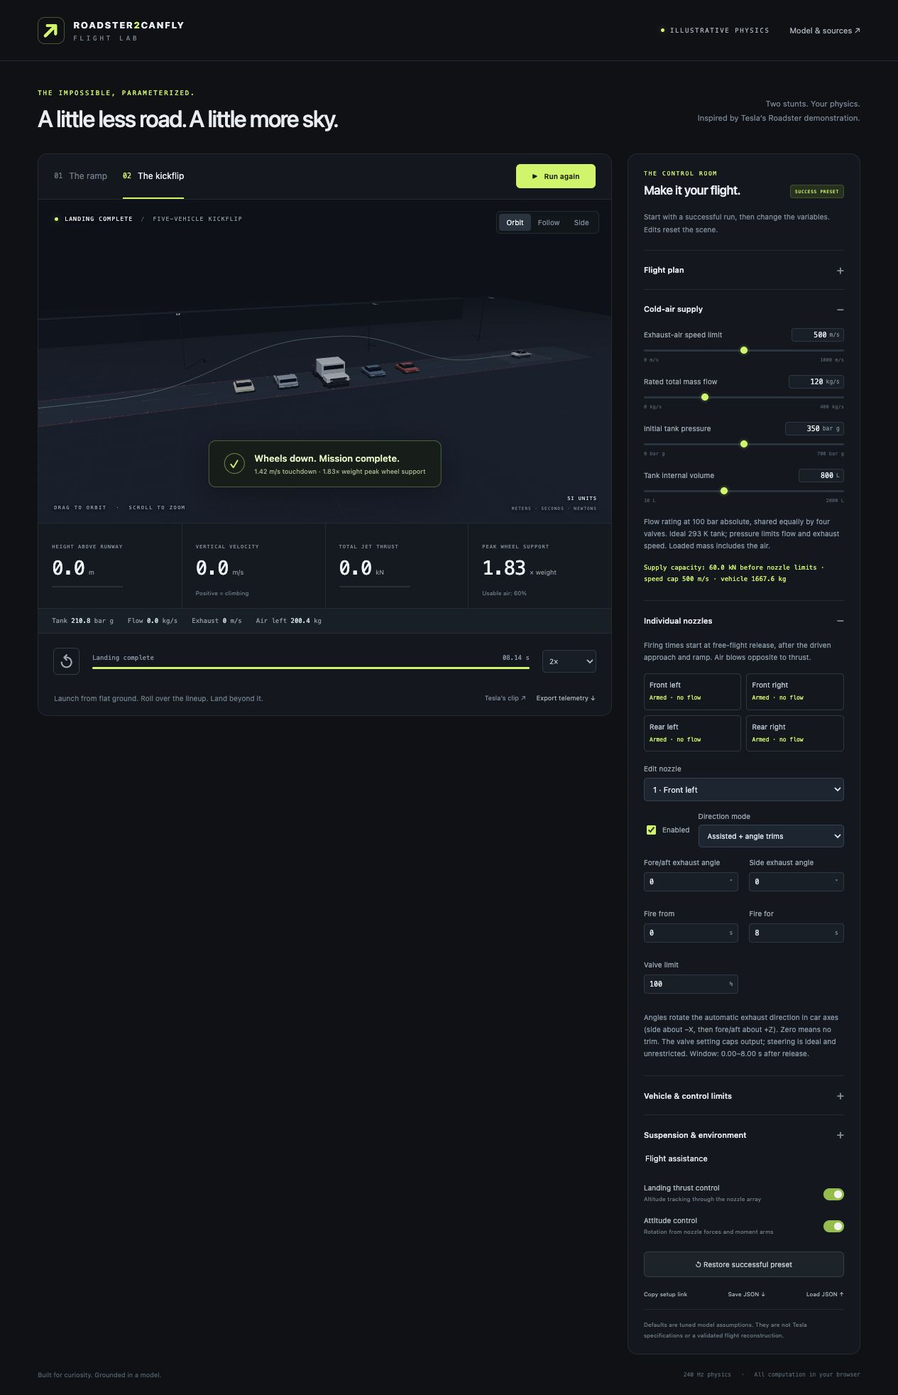
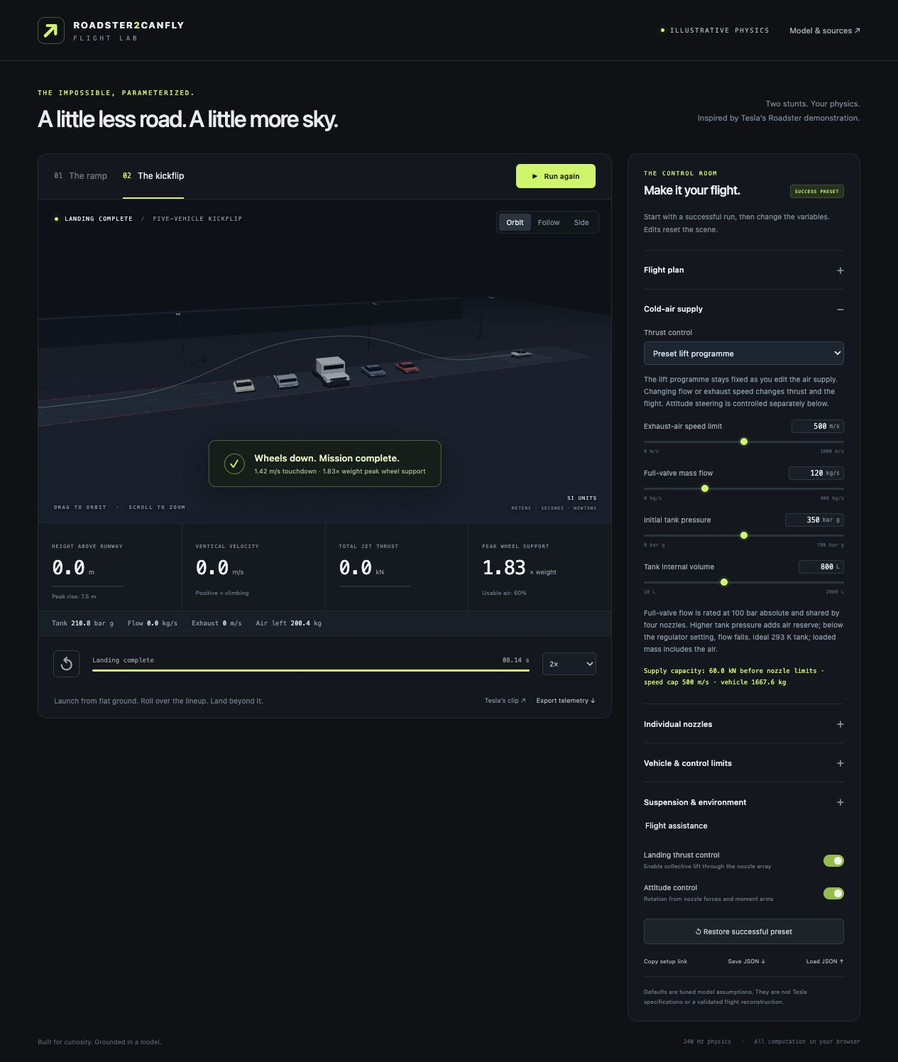
Make airflow changes affect the default flight

diff --git a/src/simulation.js b/src/simulation.js
@@ -22,6 +22,7 @@ const smooth = (u) => {
 };
 let initialization;
 export const initializePhysics = () => (initialization ??= RAPIER.init());
+const programmeCache = new Map();
 
 function hermite(t, duration, y0, v0, y1, v1) {
   const u = clamp(t / duration, 0, 1),
@@ -60,6 +61,47 @@ function bump(t, duration, height, baseline) {
   };
 }
 
+// Plan collective valve opening at nominal hardware settings, then keep it fixed
+// when the user changes air supply, vehicle mass, nozzles, or environment.
+function liftProgrammeFor(mode, parameters) {
+  const plan = Object.fromEntries(
+    ["speed", "height", "exitAngle", "flightTime", "rotationTime"].map(
+      (key) => [key, parameters[key]],
+    ),
+  );
+  const key = JSON.stringify(plan);
+  const cached = programmeCache.get(mode);
+  if (cached?.key === key) return cached;
+  // Explicit auto-throttle mode avoids recursively preparing another programme.
+  const reference = new FlightSimulation(mode, { ...plan, autoThrottle: true });
+  const forces = [];
+  try {
+    reference.start();
+    for (let i = 0; i < 45 / STEP && reference.running; i++) {
+      reference.step();
+      if (reference.flightStart !== null) forces.push(reference.requestedLift);
+    }
+    if (
+      reference.running ||
+      forces.length === 0 ||
+      !forces.every(Number.isFinite)
+    )
+      throw new Error(
+        "Could not prepare the nominal lift programme for this flight plan",
+      );
+    const programme = {
+      key,
+      forces: new Float64Array(forces),
+      nominalThrust: reference.nominalThrust,
+    };
+    // Retain only the most recent plan per scene; no growing replay cache.
+    programmeCache.set(mode, programme);
+    return programme;
+  } finally {
+    reference.dispose();
+  }
+}
+
 /** SI-unit rigid-body model. The driven approach is prescribed; free flight is force-integrated. */
 export class FlightSimulation {
   constructor(mode = "ramp", overrides = {}) {
@@ -72,6 +114,8 @@ export class FlightSimulation {
     this.mode = mode;
     this.p = parametersFor(mode, overrides);
     const p = this.p;
+    this.liftProgramme = p.autoThrottle ? null : liftProgrammeFor(mode, p);
+    this.requestedLift = 0;
     this.height = rideHeight(p);
     this.time = 0;
     this.phase = "ready";
@@ -312,7 +356,7 @@ export class FlightSimulation {
     this.torqueLevel = 0;
     const maxThrust = p.thrust * 1000;
     let thrust = 0;
-    if (p.landingAssist && this.touchdownTime === null) {
+    if (p.landingAssist && this.touchdownTime === null && p.autoThrottle) {
       let target;
       if (tf <= p.flightTime) {
         target =
@@ -333,7 +377,17 @@ export class FlightSimulation {
         11 * (target.y - position.y) +
         6.5 * (target.v - velocity.y);
       thrust = clamp(this.mass * acceleration, 0, maxThrust);
+    } else if (p.landingAssist && this.touchdownTime === null) {
+      const command = this.liftProgramme.forces[Math.round(tf / STEP)] ?? 0;
+      // Same planned valve demand, different hardware: F = flow × exhaust speed.
+      // There is deliberately no altitude-error feedback to cancel the edit.
+      thrust = clamp(
+        (command * this.supply.maxThrust) / this.liftProgramme.nominalThrust,
+        0,
+        maxThrust,
+      );
     }
+    this.requestedLift = thrust;
     const torque = new Vector3();
     if (
       p.attitudeAssist &&

diff --git a/src/main.js b/src/main.js
@@ -125,10 +125,26 @@ function makeControls() {
       );
     }
     if (group.title === "Cold-air supply") {
+      const modeControl = document.createElement("label");
+      modeControl.className = "throttle-mode";
+      modeControl.innerHTML = `<span>Thrust control</span><select id="throttle-mode" aria-label="Thrust control"><option value="programme">Preset lift programme</option><option value="automatic">Auto throttle · hold target path</option></select>`;
+      modeControl.querySelector("select").value = parameters.autoThrottle
+        ? "automatic"
+        : "programme";
+      modeControl
+        .querySelector("select")
+        .addEventListener("change", (event) => {
+          changeParameter("autoThrottle", event.target.value === "automatic");
+          updateThrottleNote();
+        });
+      const modeNote = document.createElement("p");
+      modeNote.id = "throttle-note";
+      modeNote.className = "control-note";
+      fields.prepend(modeControl, modeNote);
       const note = document.createElement("p");
       note.className = "control-note";
       note.textContent =
-        "Flow rating at 100 bar absolute, shared equally by four valves. Ideal 293 K tank; pressure limits flow and exhaust speed. Loaded mass includes the air.";
+        "Full-valve flow is rated at 100 bar absolute and shared by four nozzles. Higher tank pressure adds air reserve; below the regulator setting, flow falls. Ideal 293 K tank; loaded mass includes the air.";
       const output = document.createElement("p");
       output.id = "supply-summary";
       output.className = "supply-summary";
@@ -140,7 +156,14 @@ function makeControls() {
   });
   $("landing-assist").checked = parameters.landingAssist;
   $("attitude-assist").checked = parameters.attitudeAssist;
+  updateThrottleNote();
   updatePresetBadge();
+}
+
+function updateThrottleNote() {
+  $("throttle-note").textContent = parameters.autoThrottle
+    ? "Auto throttle compensates to hold the target path. Flow and speed are capacity limits; raising spare capacity may leave the flight unchanged."
+    : "The lift programme stays fixed as you edit the air supply. Changing flow or exhaust speed changes thrust and the flight. Attitude steering is controlled separately below.";
 }
 
 function makeNozzleControls() {
@@ -284,6 +307,8 @@ function updateTelemetry(s) {
       ? "Ready when you are"
       : `${phaseNames[s.phase]}${simulation.running ? " · paused" : ""}`;
   $("altitude").textContent = s.altitude.toFixed(1);
+  $("peak-height").textContent =
+    `Peak rise: ${s.metrics.peakHeight.toFixed(1)} m`;
   $("vertical-speed").textContent =
     (s.velocity.y > 0.05 ? "+" : "") + s.velocity.y.toFixed(1);
   $("thrust").textContent = (s.thrust / 1000).toFixed(1);

diff --git a/tests/simulation.test.js b/tests/simulation.test.js
@@ -58,7 +58,39 @@ for (const mode of ["ramp", "kickflip"]) {
     assert.ok(sim.trace.every((row) => row.thrust === 0));
     sim.dispose();
   });
+
+  test(`${mode}: changing spare airflow changes the flight with the default lift programme`, () => {
+    const lower = run(mode, { massFlow: 90 });
+    const higher = run(mode, { massFlow: 150 });
+    assert.equal(lower.p.autoThrottle, false);
+    assert.ok(higher.metrics.peakHeight - lower.metrics.peakHeight > 2);
+    assert.ok(
+      Math.max(...higher.trace.map((r) => r.thrust)) >
+        Math.max(...lower.trace.map((r) => r.thrust)) * 1.2,
+    );
+    lower.dispose();
+    higher.dispose();
+  });
+
+  test(`${mode}: explicit auto throttle can compensate for additional airflow capacity`, () => {
+    const lower = run(mode, { massFlow: 90, autoThrottle: true });
+    const higher = run(mode, { massFlow: 150, autoThrottle: true });
+    assert.equal(lower.phase, "complete");
+    assert.equal(higher.phase, "complete");
+    assert.equal(lower.metrics.peakHeight, higher.metrics.peakHeight);
+    assert.equal(lower.metrics.touchdownSpeed, higher.metrics.touchdownSpeed);
+    lower.dispose();
+    higher.dispose();
+  });
 }
+
+test("exhaust-speed changes affect the default kickflip flight instead of being throttled away", () => {
+  const lower = run("kickflip", { exhaustSpeed: 400 });
+  const higher = run("kickflip", { exhaustSpeed: 600 });
+  assert.ok(higher.metrics.peakHeight - lower.metrics.peakHeight > 5);
+  lower.dispose();
+  higher.dispose();
+});
 
 test("landing without the kickflip does not complete the kickflip stunt", () => {
   const sim = run("kickflip", { torque: 0 });

diff --git a/index.html b/index.html
@@ -137,6 +137,9 @@
                 <span class="metric-label">HEIGHT ABOVE RUNWAY</span>
                 <p><strong id="altitude">0.0</strong><span>m</span></p>
                 <div class="meter"><i id="altitude-meter"></i></div>
+                <small id="peak-height" class="metric-peak"
+                  >Peak rise: 0.0 m</small
+                >
               </div>
               <div>
                 <span class="metric-label">VERTICAL VELOCITY</span>
@@ -228,7 +231,7 @@
               <label
                 ><span
                   >Landing thrust control<small
-                    >Altitude tracking through the nozzle array</small
+                    >Enable collective lift through the nozzle array</small
                   ></span
                 ><input
                   id="landing-assist"
@@ -309,6 +312,12 @@
         trims, valve limits, and firing windows affect those forces. The
         successful presets assume unrestricted automatic steering; choose “Fixed
         to car” to fire along a body-mounted direction.
+      </p>
+      <p>
+        The default preset lift programme keeps the nominal valve demand fixed,
+        so changing airflow or exhaust speed changes the flight. Auto throttle
+        is an explicit alternative: it adjusts valve opening to hold the target
+        path, so increasing spare flow capacity may have no visible effect.
       </p>
       <p>
         A finite ideal-air tank stays at 293 K. A regulator caps inlet pressure

diff --git a/src/style.css b/src/style.css
@@ -369,6 +369,10 @@ h1 {
   font-size: 8px;
   color: #718491;
 }
+.telemetry .metric-peak {
+  display: block;
+  margin-top: 8px;
+}
 .meter {
   height: 2px;
   background: #263642;
@@ -685,7 +689,8 @@ input[type="range"]::-moz-range-thumb {
   font-size: 10px;
   margin-bottom: 7px;
 }
-.nozzle-controls select {
+.nozzle-controls select,
+.throttle-mode select {
   width: 100%;
   min-width: 0;
   border: 1px solid #344b5b;
@@ -694,6 +699,16 @@ input[type="range"]::-moz-range-thumb {
   background: #172a37;
   padding: 8px;
   font-size: 11px;
+}
+.throttle-mode {
+  display: block;
+  margin: 0 0 12px;
+}
+.throttle-mode > span {
+  display: block;
+  color: #a4b3be;
+  font-size: 10px;
+  margin-bottom: 7px;
 }
 .nozzle-mode-controls {
   display: flex;

diff --git a/src/config.js b/src/config.js
@@ -162,6 +162,7 @@ const common = {
   exitAngle: 135,
   attitudeAssist: true,
   landingAssist: true,
+  autoThrottle: false,
 };
 
 export const DEFAULTS = Object.freeze({
@@ -241,7 +242,7 @@ export const PARAM_GROUPS = [
       },
       {
         key: "massFlow",
-        label: "Rated total mass flow",
+        label: "Full-valve mass flow",
         unit: "kg/s",
         min: 0,
         max: 400,

diff --git a/docs/MODEL.md b/docs/MODEL.md
@@ -34,6 +34,7 @@ All numbers in this table are model inputs, not measurements of Tesla’s demo.
 | Tank internal volume                |         800 L |     Same |
 | Initial usable air                  |       ~333 kg |     Same |
 | Initial available jet thrust        |         60 kN |     Same |
+| Auto throttle                       |           Off |      Off |
 | Spring rate per wheel               |       40 kN/m |     Same |
 | Damper per wheel                    |    4.5 kN·s/m |     Same |
 | Compression travel                  |        0.26 m |     Same |
@@ -59,9 +60,13 @@ The tank uses fixed ideal-air assumptions: 293.15 K, gas constant 287.05 J/(kg·
 
 ## Flight control
 
-The ramp altitude reference is a cubic Hermite curve matching release height/vertical velocity and the desired touchdown height/velocity. The kickflip uses two quintic smoothstep segments to rise to the selected height and descend.
+The ramp altitude reference is a cubic Hermite curve matching release height/vertical velocity and the desired touchdown height/velocity. The kickflip uses two quintic smoothstep segments to rise to the selected height and descend. These define the nominal flight plan, rather than imposing positions on the dynamic chassis.
 
-Lift control requests `m * (g + reference_acceleration + 11 * height_error + 6.5 * vertical_velocity_error)`, limited to `[0, lift_request_limit]`. Mass `m` decreases as air is expelled. This is a request for a world-up force, transformed to body coordinates and allocated to the four nozzles.
+**Preset lift programme is the default.** The model first prepares nominal collective lift commands at 240 Hz using the default vehicle, supply, and nozzles for the selected speed, height, exit angle, flight duration, and rotation duration. It retains only the latest command programme per scene. Recorded values are force commands, not vehicle positions or a replayed trajectory.
+
+During the actual run, lift is `clamp(nominal_command(t) * current_supply_capacity / nominal_supply_capacity, 0, lift_request_limit)`. Thus the same nominal valve demand produces more thrust with more flow or exhaust speed, and less thrust when pressure limits delivery. Supply, vehicle mass, nozzle, and environment edits do not cause a new programme to be fitted around those changes. There is no altitude-error feedback in this mode to cancel them. The body still responds to integrated gravity, jet forces, drag, and contact; extra thrust can cause an overshoot and a harder eventual landing. Attitude assistance remains independently selectable.
+
+**Auto throttle is an explicit alternative.** It requests `m * (g + reference_acceleration + 11 * height_error + 6.5 * vertical_velocity_error)`, limited to `[0, lift_request_limit]`. Mass `m` decreases as air is expelled. This mode adjusts valves to hold the target path; a higher flow rating can be exactly compensated by a smaller valve opening when capacity is sufficient. Flow is then a capability limit, rather than a direct instruction to expel more air. Both modes request a world-up force that is transformed to body coordinates and allocated to the four nozzles.
 
 Attitude control tracks a quaternion reference with a proportional/damping torque request. The ramp target rotates from the exit attitude to an upright car facing back along the runway. The kickflip target completes one longitudinal roll. The request is capped at the selected torque norm. There is **no separate torque actuator**: actual rotation must come from nozzle forces at their moment arms.
 
@@ -77,7 +82,7 @@ w = inverse(D) * (requested_torque - r_mean × requested_force)
 F_i = requested_force / 4 + w × r_i
 ```
 
-Each assisted nozzle takes the opposite vector as its exhaust direction, applies its user-selected direction trims, and clamps force to its individual flow/speed/valve capacity. The four shares are computed before closed valves and saturation; unavailable capacity is not redistributed by an optimizer. Disabling a nozzle, shortening its window, or trimming it can spoil the maneuver. The controller responds to the resulting motion through feedback, but cannot add any hidden force or torque.
+Each assisted nozzle takes the opposite vector as its exhaust direction, applies its user-selected direction trims, and clamps force to its individual flow/speed/valve capacity. The four shares are computed before closed valves and saturation; unavailable capacity is not redistributed by an optimizer. Disabling a nozzle, shortening its window, or trimming it can spoil the maneuver. Attitude control responds through feedback; altitude correction occurs only in Auto throttle mode. Neither can add any hidden force or torque.
 
 Choose **Fixed to car** to bypass automatic steering and fire that nozzle at its selected valve percentage during its window. Both assistance switches can be off while fixed nozzles still fire. At zero angles its exhaust points along body -Y. Angles rotate the exhaust first about -X (side), then +Z (fore/aft). With the other angle zero, +90° side points exhaust left (+Z), and +90° fore/aft points it toward the nose (+X). Thrust points the opposite way. In assisted mode these same rotations trim the automatic body-frame exhaust direction; zero angles leave it unchanged. Ideal steering has no gimbal angle or rate limits.
 
@@ -87,7 +92,7 @@ Windows are half-open `[start, start + duration)` in **seconds since free-flight
 
 The model uses the ideal gas relation `P V = m R T`. Tank volume and temperature are constant. Initial loaded vehicle mass includes all tank air; expelled air is subtracted from both tank and vehicle mass. Gas remaining at ambient pressure is retained and cannot produce further thrust. Center of mass is held fixed and chassis inertia scales uniformly with the remaining loaded mass, rather than solving internal gas motion or tank placement.
 
-The user-selected **rated total mass flow** defines four equal ideal valve capacities at 100 bar absolute. The actual inlet is `P_in = min(P_tank, 100 bar absolute)`. Flow scales with inlet pressure. Above the critical pressure ratio it is choked; near ambient it uses the subsonic isentropic orifice relation and falls to zero:
+The user-selected **full-valve mass flow** defines four equal ideal valve capacities at 100 bar absolute. The actual inlet is `P_in = min(P_tank, 100 bar absolute)`. Above the regulator setting, more tank pressure adds air reserve without increasing initial flow. Below it, flow scales with inlet pressure. Above the critical pressure ratio it is choked; near ambient it uses the subsonic isentropic orifice relation and falls to zero:
 
 ```text
 r = P_ambient / P_in
@@ -128,7 +133,7 @@ These are explicit sandbox criteria, not Tesla specifications or safety standard
 
 ## Verification
 
-`npm test` checks successful defaults for both scenes; flow/speed/pressure limits; tank and rigid-body mass conservation; nozzle force and moment balance; direction, valve, and timing effects; the final gas step; incomplete-kickflip detection; insufficient lift; unpowered vertical acceleration; repeatability; setup round trips and legacy conversion; and rejected invalid parameters. Tests use the same physics and propulsion modules as the browser.
+`npm test` checks successful defaults for both scenes; actual trajectory changes with airflow and exhaust-speed edits; compensation only in explicit Auto throttle mode; flow/speed/pressure limits; tank and rigid-body mass conservation; nozzle force and moment balance; direction, valve, and timing effects; the final gas step; incomplete-kickflip detection; insufficient lift; unpowered vertical acceleration; repeatability; setup round trips and legacy conversion; and rejected invalid parameters. Tests use the same physics and propulsion modules as the browser.
 
 Default smoke results on the development Mac (M1 Max, Node 26, Rapier 0.21.0):
 
@@ -136,6 +141,16 @@ Default smoke results on the development Mac (M1 Max, Node 26, Rapier 0.21.0):
 | -------- | -------- | -----------------------: | -----------------: | -----------: | ------------------: | -------------: |
 | Ramp     | Complete |                ~1.39 m/s |     ~1.81 × weight |    ~164.0 kg |        ~177.5 bar g | Not applicable |
 | Kickflip | Complete |                ~1.42 m/s |     ~1.83 × weight |    ~132.4 kg |        ~210.8 bar g |         ~1.000 |
+
+With the same default kickflip plan and Preset lift programme, changing only full-valve flow gives:
+
+| Flow rating | Peak rise | Outcome                    |
+| ----------: | --------: | -------------------------- |
+|     90 kg/s |    ~2.5 m | Strikes the semi           |
+|    120 kg/s |    ~7.5 m | Stable landing             |
+|    150 kg/s |   ~21.2 m | Overshoot and hard landing |
+
+These cases were identical at 90–150 kg/s in the earlier implicit auto-throttle implementation. The regression tests now require a change in actual trajectory, not merely an updated capacity readout or a zero-flow failure.
 
 JSON setups and share links use version 2 and include the full supply and all four nozzle records. Loading version 1 converts its former impulse budget to an equivalent usable air mass at the default speed and tank pressure and visibly reports the migration; results can change. Invalid or physically impossible loaded-mass/tank combinations fail explicitly. CSV columns include SI force, torque, flow and mass, gauge pressure in bar, and each nozzle's thrust, flow, and body-frame exhaust vector. Nozzle indices 1–4 are front left, front right, rear left, rear right.
 

diff --git a/README.md b/README.md
@@ -35,12 +35,13 @@ The size check enforces a **1 GB project budget**, including source, installed d
 ## What you can change
 
 - **Flight:** launch speed, ramp or jump height, ramp exit angle, target flight time, rotation duration.
-- **Cold-air supply:** exhaust-air speed, rated total mass flow, initial tank pressure, and tank volume. Live telemetry shows pressure, actual flow and exhaust speed, and remaining usable air.
+- **Cold-air supply:** exhaust-air speed, full-valve mass flow, initial tank pressure, and tank volume. Live telemetry shows pressure, actual flow and exhaust speed, remaining usable air, and peak rise.
+- **Thrust control:** the default **Preset lift programme** keeps nominal lift valve demand fixed, so airflow and exhaust-speed edits change thrust and trajectory. **Auto throttle** is a separate option that adjusts valve opening to hold the target path; increasing spare capacity in that mode may leave the flight unchanged.
 - **Individual nozzles:** select any of four corner nozzles, adjust two exhaust angles, enable/disable it, set its valve limit, and schedule its firing start and duration. Times start at free-flight release. Assisted steering uses angle trims; fixed mode fires along the chosen car-relative direction.
 - **Vehicle and control:** initial loaded mass, center of mass, lift request limit, and attitude torque request limit.
 - **Landing:** spring stiffness, damping, suspension travel, friction.
 - **Environment:** drag area and wind along the runway.
-- **Assistance:** independently enable altitude tracking and attitude control.
+- **Assistance:** independently enable collective lift and attitude control.
 
 Changes reset the simulation. **Restore successful preset** returns the current scene to its tested defaults. Save/load a version-2 JSON setup or copy a URL containing the full setup, including every nozzle. Version-1 setups are explicitly converted from their impulse budget to an equivalent usable air mass; results can differ under the new model. Export the run’s telemetry as CSV, including tank state, forces, and individual nozzle flows and exhaust directions.
 
@@ -57,6 +58,8 @@ The night runway, overhung ramp, airborne recovery, five-vehicle lineup, roll, a
 The driven approach and adhesion to the overhung ramp are prescribed. After release, Rapier integrates a rigid chassis at **240 Hz**. Four spring-damper wheel contacts handle landing support and friction. Four nozzle point forces produce both lift and rotation, consume air from a finite tank, and reduce vehicle mass. Pressure limits available flow and exhaust speed. Parameter changes can cause collisions, insufficient lift, hard landings, or an incomplete stunt.
 
 The successful presets assume **ideal unrestricted nozzle steering**, an **isothermal ideal-air tank**, and a **100 bar absolute regulator**. The flow rating is the combined four-valve capacity at that regulator pressure; lower pressure reduces it. Exhaust speed is capped by ideal expansion to ambient. The 800 L / 350 bar gauge tank and all other engineering values are illustrative assumptions, not Tesla hardware specifications. This is a lightweight reduced model, not CFD or a pressure-vessel design tool.
+
+For example, the default kickflip rises about **7.5 m at 120 kg/s**. With the same lift programme, **90 kg/s** reaches only about **2.5 m** and strikes the vehicle lineup; **150 kg/s** rises about **21.2 m** and lands hard. The nominal programme is prepared for the selected flight plan at the default hardware settings. Editing the air supply, vehicle mass, nozzles, or environment does not retune it to cancel those changes. The runway approach and ramp travel remain prescribed.
 
 See [the model and its assumptions](docs/MODEL.md) for equations, defaults, criteria, and limitations.
 

diff --git a/docs/ACCEPTANCE.md b/docs/ACCEPTANCE.md
@@ -2,10 +2,12 @@
 
 Checked locally on October 16, 2026, on an Apple M1 Max MacBook Pro with 64 GB RAM, Node 26, Three.js 0.186.1, and Rapier 0.21.0.
 
-- All **23 physics, propulsion, and input tests pass**. Tests cover successful defaults, finite tank depletion, mass conservation, pressure/flow/speed limits, force and moment balance, individual nozzle directions and firing windows, invalid inputs, and setup round trips.
+- All **28 physics, propulsion, and input tests pass**. New regressions require airflow and exhaust-speed edits to change the actual trajectory in the default mode and check that compensation occurs in the explicitly selected Auto throttle mode. Existing tests cover successful defaults, finite tank depletion, mass conservation, pressure/flow/speed limits, force and moment balance, individual nozzle directions and firing windows, invalid inputs, and setup round trips.
 - The GitHub Pages production build succeeds. The deployable site is approximately **5.01 MB** and includes the WebAssembly physics engine. No runtime dependencies were added for the new controls.
 - The project, dependencies, and build occupy approximately **85 MB**, below the **1 GB** budget enforced by `npm run check:size`.
 - Both default scenes reach **Landing complete** in the Codex in-app browser. The ramp reports **1.39 m/s** touchdown, **1.81× weight** peak wheel support, and **177.5 bar gauge** remaining tank pressure. The kickflip reports **1.42 m/s**, **1.83× weight**, and **210.8 bar gauge**.
+- The browser now shows **Preset lift programme** as the default thrust mode. Changing only the kickflip's full-valve flow produces **2.5 m** peak rise and a semi collision at **90 kg/s**, a **7.5 m** successful default run at **120 kg/s**, and **21.2 m** peak rise with a hard landing at **150 kg/s**. These checks used the actual numeric input and Run button, rather than only checking the supply-capacity display.
+- Peak rise remains visible in telemetry after a run. Selecting **Auto throttle · hold target path** resets the scene and explains that the controller can compensate for spare flow capacity.
 - All four supply inputs were edited in the browser. Changing the speed limit to 400 m/s, rated flow to 80 kg/s, tank pressure to 25 bar gauge, and volume to 400 L updates the supply capacity to **8.3 kN** and usable air to **11.9 kg**.
 - Front-left direction angles, valve percentage, enable switch, fixed/assisted steering, firing start, and duration were exercised. Switching to the front-right editor leaves its defaults intact; returning to the front-left editor retains its distinct settings.
 - A version-2 setup link restores supply values and the front-left nozzle's angles, start/duration, valve percentage, steering, and enable state. JSON parsing and serialization are also covered by automated tests. The browser file-picker automation stalled; direct JSON file upload remains unverified in this browser run. Clipboard sharing and revised download files were not exercised.
